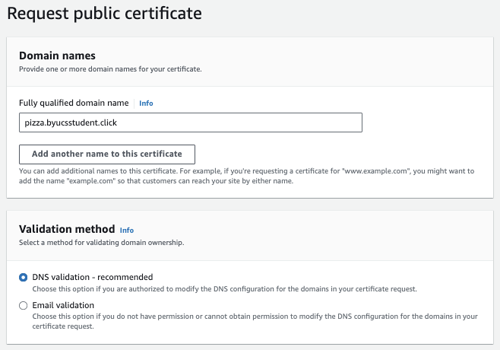
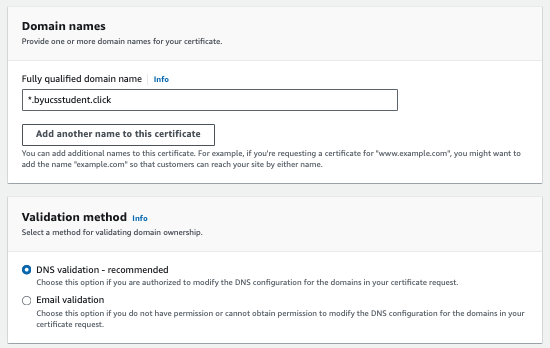
add(githubversions) content

diff --git a/instruction/awsCloudFront/awsCloudFront.md b/instruction/awsCloudFront/awsCloudFront.md
@@ -49,9 +49,18 @@ For this tutorial, the _Hello World_ page will serve as a representation of all 
 You want your static content to be securely hosted. AWS offers a free service for managing SSL certificates when they are used for AWS services such as CloudFront.
 
 1. Open the AWS browser console and navigate to the AWS Certificate Manager service.
+
+   ⚠ **Note** that you must be in the **North America Virginia** region when creating this certificate in order for it to work with CloudFront.
+
 1. Click on `Request a certificate`.
 1. Select `Request a public certificate` and press `Next`.
-1. Enter your fully qualified domain name and use `DNS validation`. This will either automatically verify your domain name if you are using Route53, or give you instructions for what you need to add to your DNS records in order for the validation to be successful.
+1. Enter a wildcard subdomain for your the fully qualified domain name and use `DNS validation`. Your domain name should look like:
+
+   ```txt
+   *.yourdomainnamehere
+   ```
+
+   For example:
 
    > ![create Certificate](createCert.png)
 
@@ -70,18 +79,18 @@ With the bucket in place you can now create your CloudFront distribution that wi
 1. For the `Origin domain` start typing the name of the bucket you create. The S3 bucket should appear.
    > ![Origin domain entry](originDomainEntry.png)
 1. In the name edit box, change the name so that it is just your DNS name for simplicity.
-1. Under `Origin access` change from `public`, because our S3 bucket is not public, to `Origin access control settings`. Create a new OAC if you don't already have one, and press `Create`. The OAC allows CloudFront to request private files from S3. This will display a message saying that you need to update the S3 bucket policy. We will do this step later.
+1. Under `Origin access` change from `public`, because our S3 bucket is not public, to **Origin access control settings**. Create a new OAC if you don't already have one, and press `Create`. The OAC allows CloudFront to request private files from S3. This will display a message saying that you need to update the S3 bucket policy. We will do this step later.
 1. Skip down to `Default cache behavior`
-   1. Under `Viewer protocol policy` specify `Redirect HTTP to HTTPS`
-   1. Under `Allowed HTTP methods` specify `GET, HEAD, OPTIONS`.
-   1. Under `Cache key and origin requests` choose the `CachingOptimized` cache policy.
-   1. Under the `Web Application Firewall (WAF)` choose the option to `Do not enable security protections`. This is an additional paid service that you don't need at this time.
+   1. Under `Viewer protocol policy` specify **Redirect HTTP to HTTPS**
+   1. Under `Allowed HTTP methods` specify **GET, HEAD, OPTIONS**.
+   1. Under `Cache key and origin requests` choose the **CachingOptimized** cache policy.
+   1. Under the `Web Application Firewall (WAF)` choose the option to **Do not enable security protections**. This is an additional paid service that you don't need at this time.
 1. Skip down to `Settings`
-   1. Under `Price class` specify `Use only North America and Europe. Unless of course you want your JWT Pizza to be optimized for access in Asia. (Realize that there may be additional charges for choosing this option.)
-   1. Under `Alternate domain name` press `add item` and type your DNS name (e.g. pizza.byucsstudent.click).
+   1. Under `Price class` specify **Use only North America and Europe**. Unless of course you want your JWT Pizza to be optimized for access in Asia. (Realize that there may be additional charges for choosing this option.)
+   1. Under `Alternate domain name` press **add item** and type your DNS name (e.g. pizza.byucsstudent.click).
    1. Chose the certificate that you created in the previous section.
       > ![Settings](settings.png)
-   1. Set _index.html_ as the `Default root object` so that it will be used when the root domain is specified.
+   1. Set **index.html** as the `Default root object` so that it will be used when the root domain is specified.
    1. Provide a description for the distribution such as `JWT Pizza`.
 1. Press `Create distribution`.
 

diff --git a/instruction/gitHubVersions/gitHubVersions.md b/instruction/gitHubVersions/gitHubVersions.md
@@ -1,5 +1,78 @@
-# Creating versions based on tags?
+# GitHub Versions
 
-[Managing Releases](https://docs.github.com/en/repositories/releasing-projects-on-github/managing-releases-in-a-repository)
+📖 **Deeper dive reading**: [Managing GitHub Releases](https://docs.github.com/en/repositories/releasing-projects-on-github/managing-releases-in-a-repository)
 
-Releases are based on tags.
+GitHub support the ability to associate a version with a commit. You can do this manually by going to the home page for a repository and selecting controls on the `Releases` section on the right of the view. From there you can press the `Draft a new release` button.
+
+Type your version ID into the version box. This will automatically create a Git tag with this name and apply it to the latest commit. You can also select an existing Git tag if you already have one.
+
+You can then give your release a name and provide a description using markdown. Press the `Publish release` button to create the release.
+
+![Create release](createRelease.png)
+
+This will create the release and also associate it with any artifacts that exist on the commit that was tagged as well as display the release on the repositories main page.
+
+![Manual release creation](manualReleaseCreation.png)
+
+This is a really nice way to visualize when a commit was deployed as a production release.
+
+## Automating releases
+
+Since we are DevOps engineers we should have got immediately uncomfortable with anything that requires a human in the process. So let's change your `jwt-pizza` CI pipeline so that it creates the release instead of depending on a manually executed step.
+
+First of all you need to create a version ID that can be used through out the GitHub action workflow. You can do this by outputting the version from your **build** job. You can reuse the version output to create the version.json file that is deployed to the production environment. That ensures that your version number is consistent across the deployment.
+
+```yml
+outputs:
+  version: ${{ steps.set_version.outputs.version }}
+steps:
+  # ...
+
+  - name: set version
+    id: set_version
+    run: |
+      echo "version=$(date +'%Y%m%d.%H%M%S')" >> "$GITHUB_OUTPUT"
+
+  - name: Build
+    run: |
+      printf '{"version": "%s" }' ${{steps.set_version.outputs.version}} > public/version.json
+
+  # ...
+```
+
+Next, you want to create a job the triggers when both the build and deploy jobs complete. This job will use the third party `ncipollo/release-action` to call the GitHub API and automatically create the tag and release based upon information found in the commit.
+
+```yml
+release:
+  needs:
+    - build
+    - deploy
+  runs-on: ubuntu-latest
+  steps:
+    - name: Create Release
+      uses: ncipollo/release-action@v1
+      env:
+        version: ${{needs.build.outputs.version}}
+      with:
+        tag: version-${{ env.version }}
+        name: Version ${{ env.version }}
+        body: |
+          ## 🚀 Changes
+
+          ${{ github.event.head_commit.message }}
+
+          **commit**: ${{ github.sha }}
+```
+
+With this job in your pipeline, it will automatically create the version the next time you commit to your fork of the `jwt-pizza` repository.The next time you run your CI pipeline it
+
+## ☑ Assignment
+
+Do the following:
+
+1. Modify your GitHub Action workflow for `jwt-pizza` so that it creates and uses a version number.
+1. Modify your GitHub Action workflow for `jwt-pizza` so that it automatically creates a tag and version that represents the production release.
+
+Go to the associated Canvas assignment and submit a screenshot of resulting release. This should look something like this:
+
+![Automatic release](automaticRelease.png)

diff --git a/instruction/modules.md b/instruction/modules.md
@@ -76,8 +76,8 @@
 
 ## Deployment strategies
 
-- 🟢 [Versioning](versioning/versioning.md)
-- 🚧 [GitHub Versions](gitHubVersions/gitHubVersions.md)
+- 🔵 [Versioning](versioning/versioning.md)
+- ☑ 🔵 [GitHub Versions](gitHubVersions/gitHubVersions.md)
 - 🚧 [Deployment environments](deploymentEnvironments/deploymentEnvironments.md)
 - 🚧 [GitHub environments](gitHubEnvironments/gitHubEnvironments.md)
 - 🚧 [Deployment strategies](deploymentStrategies/deploymentStrategies.md)

diff --git a/instruction/gitHubEnvironments/gitHubEnvironments.md b/instruction/gitHubEnvironments/gitHubEnvironments.md
@@ -3,3 +3,10 @@
 You can define environments and have secrets for them that an actions workflow can use. They can be restricted to a specific branch.
 
 For example I might have different AWS keys for prod and stage, and I also might have different branches for deploying to those environments.
+
+1. Create the GitHub environment.
+1. Create the secrets in the GitHub environment.
+1. Modify the IAM Role trust policy
+   ```
+   "repo:byucsstudent/jwt-pizza:environment:production",
+   ```
